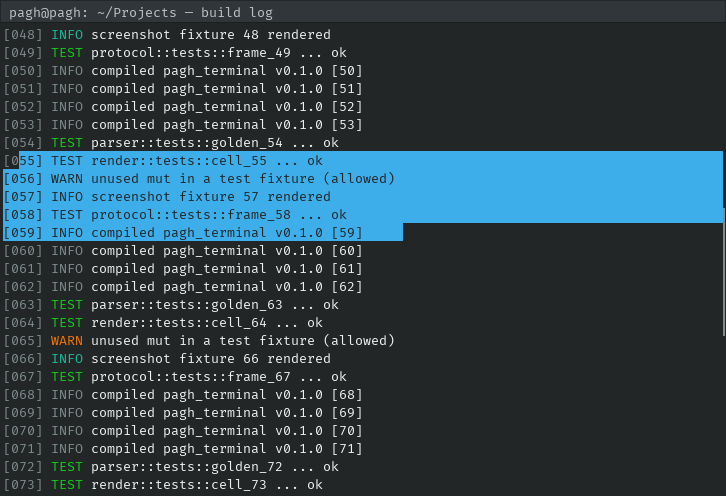
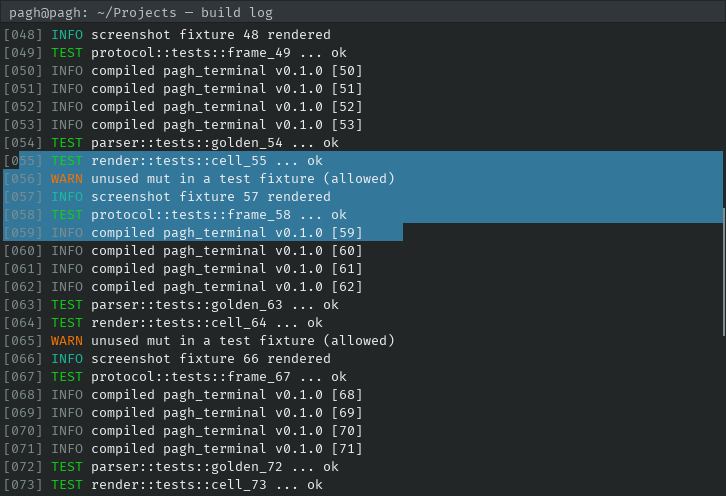
terminal: selection highlights the background, never the glyphs
Selecting fastfetch output turned its '#'-logo and every coloured key/value
into one dark grey and flattened the ANSI-background palette strip: the
renderer replaced the cell foreground with theme.selection_fg (#232627,
i.e. the theme background) and painted an opaque selection background over
the cell.  On block-art logos whose glyph fills the whole cell that hides
the highlight entirely; on ANSI text it destroys the colour.

Selection must only change the background.  A selected cell background is
now a translucent wash of theme.selection over the original background,
the foreground is left byte-identical, and HIDDEN / dark-blink cells
re-derive fg from the washed background so they stay hidden.  The wash
also keeps ANSI background art readable instead of replacing it with a
solid bar.  theme.selection_fg is removed: nothing else used it.

The fastfetch regression is covered by pixel tests (glyph colours,
full-block art, ANSI backgrounds) and by an oracle test on the guest's own
fastfetch stream: a selected frame must equal an unselected frame rendered
with theme.bg = highlight in every default-background cell.  The committed
selection screenshot (03-scrollback) is regenerated.

Without this, a text selection destroys the very content it selects.

Changed region(s): [[0.0, 0.3024, 1.0, 0.4839]]

diff --git a/rust-apps/pagh-terminal/src/render.rs b/rust-apps/pagh-terminal/src/render.rs
@@ -17,6 +17,14 @@ use crate::screen::Screen;
 
 /// Padding around the text grid inside a client surface.
 pub const VIEWPORT_PADDING: usize = 2;
+/// Share of [`Theme::selection`] mixed into a selected cell's background.
+///
+/// Selection is a *wash over the existing background*, not an opaque repaint:
+/// background art (ANSI `48;*` cells, colour swatches) stays readable and the
+/// foreground is never touched, while 60 % accent is still unmistakably a
+/// highlight on the dark theme.  100 % would erase the background; a much lower
+/// value makes the selection hard to see.
+pub const SELECTION_BG_MIX: f32 = 0.6;
 /// Height of the screenshot-only title strip.
 pub const TITLE_H: usize = 22;
 /// Window border thickness.
@@ -381,7 +389,6 @@ pub struct Theme {
     pub cursor_text: Rgb,
     pub cursor_unfocused: Rgb,
     pub selection: Rgb,
-    pub selection_fg: Rgb,
     pub palette: [Rgb; 256],
     pub window_bg: Rgb,
     pub border: Rgb,
@@ -400,7 +407,6 @@ impl Default for Theme {
             cursor_text: Rgb(0x23, 0x26, 0x27),
             cursor_unfocused: Rgb(0x7f, 0x8c, 0x8d),
             selection: Rgb(0x3d, 0xae, 0xe9),
-            selection_fg: Rgb(0x23, 0x26, 0x27),
             palette: default_palette(),
             window_bg: Rgb(0x23, 0x26, 0x27),
             border: Rgb(0x1b, 0x1e, 0x1f),
@@ -660,18 +666,28 @@ fn resolve_style(
     if cell.attrs.contains(Attrs::DIM) {
         fg = fg.scale(0.62);
     }
-    if cell.attrs.contains(Attrs::HIDDEN) {
-        fg = bg;
-    }
-    if cell.attrs.contains(Attrs::BLINK) && !blink_on {
-        fg = bg;
-    }
+    // HIDDEN and a dark blink phase paint the foreground in the background
+    // colour.  Defer that decision until after the selection wash: it has to
+    // track the *current* background, or selection would make hidden text show
+    // up (fg keeps the pre-selection colour while bg moved).
+    let blank =
+        cell.attrs.contains(Attrs::HIDDEN) || (cell.attrs.contains(Attrs::BLINK) && !blink_on);
     if screen.reverse_video {
         std::mem::swap(&mut fg, &mut bg);
     }
     if selected {
-        bg = theme.selection;
-        fg = theme.selection_fg;
+        // Selection changes the background only.  Overwriting the foreground
+        // with one dark colour (the old `selection_fg`) erased exactly what a
+        // selection must preserve: a fastfetch logo is coloured `#` glyphs and
+        // its palette strip is ANSI *backgrounds*, so a flat fill turned the
+        // logo into dark blocks and the strip into one blue bar, while every
+        // coloured key/value went grey.  A wash keeps the glyph colour
+        // byte-identical and lets background art show through, and the mixed
+        // contrast still makes the highlight obvious.
+        bg = bg.lerp(theme.selection, SELECTION_BG_MIX);
+    }
+    if blank {
+        fg = bg;
     }
     let focused_cursor = cursor_block;
     if cursor_block {
@@ -1177,7 +1193,126 @@ mod tests {
         let theme = Theme::default();
         let canvas = render_screen(&t.screen, &theme, &RenderOptions::default());
         let px = canvas.pixel(VIEWPORT_PADDING + CELL_W + 2, VIEWPORT_PADDING + 2);
-        assert_eq!(&px[..3], &theme.selection.to_array());
+        assert_eq!(
+            &px[..3],
+            &theme.bg.lerp(theme.selection, SELECTION_BG_MIX).to_array()
+        );
+    }
+
+    /// Собрать цвета всех пикселей клетки `(row, col)`.
+    fn cell_pixels(canvas: &Canvas, row: usize, col: usize) -> Vec<[u8; 3]> {
+        let mut out = Vec::with_capacity(CELL_W * CELL_H);
+        for y in 0..CELL_H {
+            for x in 0..CELL_W {
+                let px = canvas.pixel(
+                    VIEWPORT_PADDING + col * CELL_W + x,
+                    VIEWPORT_PADDING + row * CELL_H + y,
+                );
+                out.push([px[0], px[1], px[2]]);
+            }
+        }
+        out
+    }
+
+    /// Репро бага: выделение fastfetch (цветной `#`-логотип + ANSI-текст)
+    /// раньше перекрашивало foreground в один серый (`selection_fg`), поэтому
+    /// логотип и цветные ключи пропадали. Выделение обязано менять только фон:
+    /// каждый пиксель глифа сохраняет свой цвет, а фон уходит в подсветку.
+    #[test]
+    fn selection_preserves_glyph_colours() {
+        let mut t = Terminal::new(12, 2);
+        t.feed_str("\x1b[1m\x1b[33m##\x1b[0m\x1b[1m\x1b[37mPagh\x1b[0m");
+        let theme = Theme::default();
+        let opts = RenderOptions::default();
+        let plain = render_screen(&t.screen, &theme, &opts);
+
+        let mut selected = Terminal::new(12, 2);
+        selected.feed_str("\x1b[1m\x1b[33m##\x1b[0m\x1b[1m\x1b[37mPagh\x1b[0m");
+        selected
+            .screen
+            .begin_selection_abs(0, 0, crate::screen::SelectionMode::Char);
+        selected.screen.extend_selection_abs(0, 5);
+        let after = render_screen(&selected.screen, &theme, &opts);
+
+        let highlight = theme.bg.lerp(theme.selection, SELECTION_BG_MIX);
+        let yellow = theme.palette[11].lerp(Rgb::WHITE, 0.12);
+        let white = theme.palette[15].lerp(Rgb::WHITE, 0.12);
+        let mut glyph_pixels = 0usize;
+        for col in 0..6 {
+            let before = cell_pixels(&plain, 0, col);
+            let now = cell_pixels(&after, 0, col);
+            for (b, a) in before.iter().zip(now.iter()) {
+                if *b == yellow.to_array() || *b == white.to_array() {
+                    glyph_pixels += 1;
+                    assert_eq!(b, a, "foreground pixel at cell {col} changed colour");
+                } else if *b == theme.bg.to_array() {
+                    assert_eq!(a, &highlight.to_array(), "selection background mismatch");
+                }
+            }
+        }
+        assert!(glyph_pixels > 40, "too few glyph pixels: {glyph_pixels}");
+    }
+
+    /// Full-block art (the `█`-style logo) is pure foreground in the cell: the
+    /// old opaque `selection_fg` fill turned the whole cell into the theme
+    /// background, i.e. the logo visibly disappeared.  Its pixels must stay
+    /// byte-identical under selection.
+    #[test]
+    fn selection_does_not_erase_full_block_glyphs() {
+        let mut t = Terminal::new(4, 1);
+        t.screen.pen.fg = Color::Rgb(255, 0, 0);
+        t.feed_str("█");
+        t.screen
+            .begin_selection_abs(0, 0, crate::screen::SelectionMode::Char);
+        t.screen.extend_selection_abs(0, 0);
+        let canvas = render_screen(&t.screen, &Theme::default(), &RenderOptions::default());
+        for px in cell_pixels(&canvas, 0, 0) {
+            assert_eq!(px, [255, 0, 0], "selected block glyph was repainted");
+        }
+    }
+
+    /// ANSI-background art (`48;*`) is part of the picture too: the wash must
+    /// keep it distinguishable instead of replacing it with a solid bar.
+    #[test]
+    fn selection_keeps_ansi_background_art() {
+        let mut t = Terminal::new(4, 1);
+        t.feed_str("\x1b[41m  \x1b[0m");
+        let theme = Theme::default();
+        let opts = RenderOptions::default();
+        let plain = render_screen(&t.screen, &theme, &opts);
+        t.screen
+            .begin_selection_abs(0, 0, crate::screen::SelectionMode::Char);
+        t.screen.extend_selection_abs(0, 1);
+        let after = render_screen(&t.screen, &theme, &opts);
+        let red = theme.palette[1];
+        let washed = red.lerp(theme.selection, SELECTION_BG_MIX);
+        for col in 0..2 {
+            assert_eq!(cell_pixels(&plain, 0, col)[0], red.to_array());
+            let px = cell_pixels(&after, 0, col)[0];
+            assert_eq!(px, washed.to_array());
+            assert_ne!(px, theme.selection.to_array(), "background art was erased");
+            assert_ne!(px, red.to_array(), "selection is invisible");
+        }
+    }
+
+    /// Hidden text must stay hidden: now that the foreground is preserved, the
+    /// "paint fg in the background colour" decision has to follow the *washed*
+    /// background, not the pre-selection one.
+    #[test]
+    fn selection_keeps_hidden_text_hidden() {
+        let mut t = Terminal::new(8, 1);
+        t.feed_str("\x1b[8msecret");
+        let theme = Theme::default();
+        t.screen
+            .begin_selection_abs(0, 0, crate::screen::SelectionMode::Char);
+        t.screen.extend_selection_abs(0, 5);
+        let canvas = render_screen(&t.screen, &theme, &RenderOptions::default());
+        let washed = theme.bg.lerp(theme.selection, SELECTION_BG_MIX);
+        for col in 0..6 {
+            for px in cell_pixels(&canvas, 0, col) {
+                assert_eq!(px, washed.to_array(), "hidden glyph appeared on selection");
+            }
+        }
     }
 
     #[test]

diff --git a/rust-apps/pagh-terminal/tests/render_png.rs b/rust-apps/pagh-terminal/tests/render_png.rs
@@ -5,7 +5,7 @@ use pagh_terminal::demo;
 use pagh_terminal::png;
 use pagh_terminal::render::{
     render_screen, render_screen_into, render_screen_into_cleared, render_window, Canvas,
-    RenderOptions, Theme, BORDER, TITLE_H, VIEWPORT_PADDING,
+    RenderOptions, Theme, BORDER, SELECTION_BG_MIX, TITLE_H, VIEWPORT_PADDING,
 };
 use pagh_terminal::screen::{Screen, SelectionMode};
 use pagh_terminal::Terminal;
@@ -55,10 +55,11 @@ fn text_cursor_and_selection_paint_expected_pixels() {
     let theme = theme();
     let canvas = render_screen(&terminal.screen, &theme, &RenderOptions::default());
 
-    // Selected cell background.
+    // Selected cell background: a wash over the cell background, not an
+    // opaque fill (see render::SELECTION_BG_MIX).
     assert_eq!(
         &canvas.pixel(VIEWPORT_PADDING + 8 + 2, VIEWPORT_PADDING + 2)[..3],
-        &theme.selection.to_array()
+        &theme.bg.lerp(theme.selection, SELECTION_BG_MIX).to_array()
     );
     // Cursor block at cell 5.
     assert_eq!(
@@ -400,5 +401,141 @@ fn bulk_fills_match_the_per_pixel_reference() {
         reference.pixels,
         mapped.clone().pixels,
         "mapped fill diverges (wire order or stride)"
+    );
+}
+
+/// Репро бага на настоящем выводе `fastfetch`, снятом с гостя (serial-лог
+/// сессии qbug3): цветной `#`-логотип слева, ANSI-текст справа и полоса
+/// цветовых фонов внизу.
+///
+/// Оракул: кадр с выделением обязан быть пиксель-в-пиксель равен кадру без
+/// выделения, отрисованному с `theme.bg == подсветка`, во всех клетках с
+/// дефолтным фоном. Это ровно утверждение «выделение меняет только фон»:
+/// foreground, сглаживание и ANSI-цвета совпадают по построению, а не по
+/// переписанной в тесте формуле.
+///
+/// Прежний `resolve_style` подменял foreground на один тёмный `selection_fg`,
+/// поэтому логотип и цветные пары ключ/значение становились серыми, а
+/// ANSI-фоны — сплошной синей полосой.
+#[test]
+fn selection_over_real_fastfetch_output_keeps_logo_text_and_colours() {
+    let dir = std::path::Path::new(env!("CARGO_MANIFEST_DIR"));
+    let raw = std::fs::read(dir.join("tests/fixtures/fastfetch-guest.script"))
+        .expect("fastfetch guest fixture");
+    let theme = theme();
+    let opts = RenderOptions::default();
+    let mut plain = Terminal::new(100, 30);
+    plain.feed(&raw);
+    let before = render_screen(&plain.screen, &theme, &opts);
+
+    // Весь блок fastfetch: 12 строк логотипа/информации + две строки
+    // цветовых фонов (ANSI 40..47 и 100..107).
+    let mut selected = Terminal::new(100, 30);
+    selected.feed(&raw);
+    selected
+        .screen
+        .begin_selection_abs(0, 0, SelectionMode::Char);
+    selected.screen.extend_selection_abs(13, 99);
+    let after = render_screen(&selected.screen, &theme, &opts);
+
+    let highlight = theme.bg.lerp(theme.selection, SELECTION_BG_MIX);
+    let mut washed = theme.clone();
+    washed.bg = highlight;
+    let oracle = render_screen(&plain.screen, &washed, &opts);
+    assert_ne!(
+        highlight.to_array(),
+        theme.selection.to_array(),
+        "selection wash must not be the opaque accent"
+    );
+
+    let rgb = |px: [u8; 4]| [px[0], px[1], px[2]];
+    let mut background = 0usize;
+    let mut glyph = 0usize;
+    let mut swatches = 0usize;
+    for row in 0..14 {
+        let line = plain.screen.view_line(row);
+        for col in 0..100 {
+            let cell = line.get(col).copied().unwrap_or_default();
+            for y in 0..18 {
+                for x in 0..8 {
+                    let px = (
+                        VIEWPORT_PADDING + col * 8 + x,
+                        VIEWPORT_PADDING + row * 18 + y,
+                    );
+                    let b = rgb(before.pixel(px.0, px.1));
+                    let a = after.pixel(px.0, px.1);
+                    if !cell.bg.is_default() {
+                        // ANSI-фон (полоса цветов внизу): подсветка — смесь, а
+                        // не сплошная заливка, поэтому арт остаётся различимым.
+                        let bg = cell.bg.resolve(&theme.palette, theme.bg);
+                        assert_eq!(
+                            rgb(a),
+                            bg.lerp(theme.selection, SELECTION_BG_MIX).to_array(),
+                            "ANSI background art was erased at ({row},{col})"
+                        );
+                        assert_ne!(rgb(a), theme.selection.to_array());
+                        swatches += 1;
+                        continue;
+                    }
+                    assert_eq!(
+                        a,
+                        oracle.pixel(px.0, px.1),
+                        "selected cell ({row},{col}) differs from `theme.bg = highlight`"
+                    );
+                    if b == theme.bg.to_array() {
+                        assert_eq!(rgb(a), highlight.to_array());
+                        background += 1;
+                    } else {
+                        glyph += 1;
+                    }
+                }
+            }
+        }
+    }
+    assert!(
+        background > 10_000,
+        "selection painted too little: {background}"
+    );
+    assert!(
+        swatches > 100,
+        "no ANSI colour swatches covered: {swatches}"
+    );
+
+    // Регрессия «foreground посерел»: ядра глифов (полное покрытие) — это
+    // пиксели, которые в оракуле остались прежними; старый код перекрашивал
+    // их все, поэтому счётчик обнулялся бы. Края сглаживания законно
+    // смешиваются с новым фоном, поэтому их сюда не относим.
+    let mut preserved = 0usize;
+    for row in 0..14 {
+        let line = plain.screen.view_line(row);
+        for col in 0..100 {
+            let cell = line.get(col).copied().unwrap_or_default();
+            if !cell.bg.is_default() {
+                continue;
+            }
+            for y in 0..18 {
+                for x in 0..8 {
+                    let px = (
+                        VIEWPORT_PADDING + col * 8 + x,
+                        VIEWPORT_PADDING + row * 18 + y,
+                    );
+                    let b = before.pixel(px.0, px.1);
+                    let a = after.pixel(px.0, px.1);
+                    if b[..3] != theme.bg.to_array()[..] && b == a {
+                        preserved += 1;
+                    }
+                }
+            }
+        }
+    }
+    assert!(
+        preserved > 1_000,
+        "foreground colours were not preserved: {preserved}"
+    );
+    // И сам кадр не должен быть «залит» подсветкой: глифовые пиксели заведомо
+    // есть внутри выделения.
+    assert!(
+        glyph > 1_000,
+        "no glyph pixels inside the selection: {glyph}"
     );
 }

diff --git a/rust-apps/pagh-terminal/TERMINAL.md b/rust-apps/pagh-terminal/TERMINAL.md
@@ -319,7 +319,12 @@ client                                   server
   будущего расширения; IME не поддержан);
 * wheel без mouse-reporting листает scrollback; drag левой кнопкой создаёт
   selection.  Выделенный текст доступен `Screen::selection_text()`; запись в
-  системный clipboard в v1 не выполняется.
+  системный clipboard в v1 не выполняется.  Selection меняет **только фон**:
+  это полупрозрачная подсветка поверх исходного фона
+  (`render::SELECTION_BG_MIX`), поэтому foreground и ANSI-цвета остаются
+  байт-в-байт прежними.  Перекрашивать текст в один `selection_fg` нельзя:
+  на выводе `fastfetch` это стирает цветной логотип и полосу цветовых фонов
+  (регрессия — `tests/selection_live.rs` и `tests/render_png.rs`).
 
 Resize — только серверный: клиент не просит размер, а принимает `configure`.
 Декорации и заголовок принадлежат композитору, поэтому `set_title` в PDP/1
